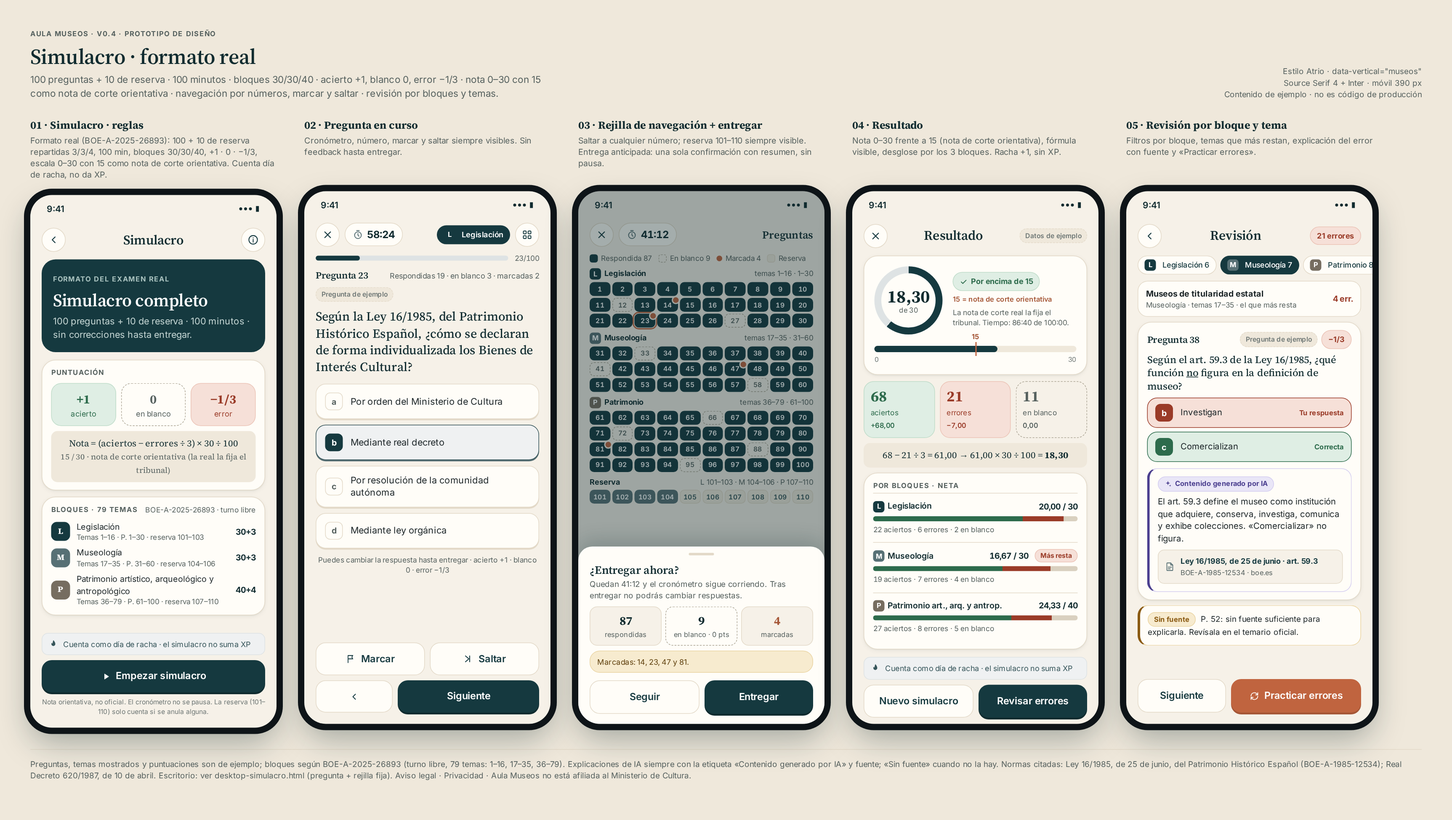
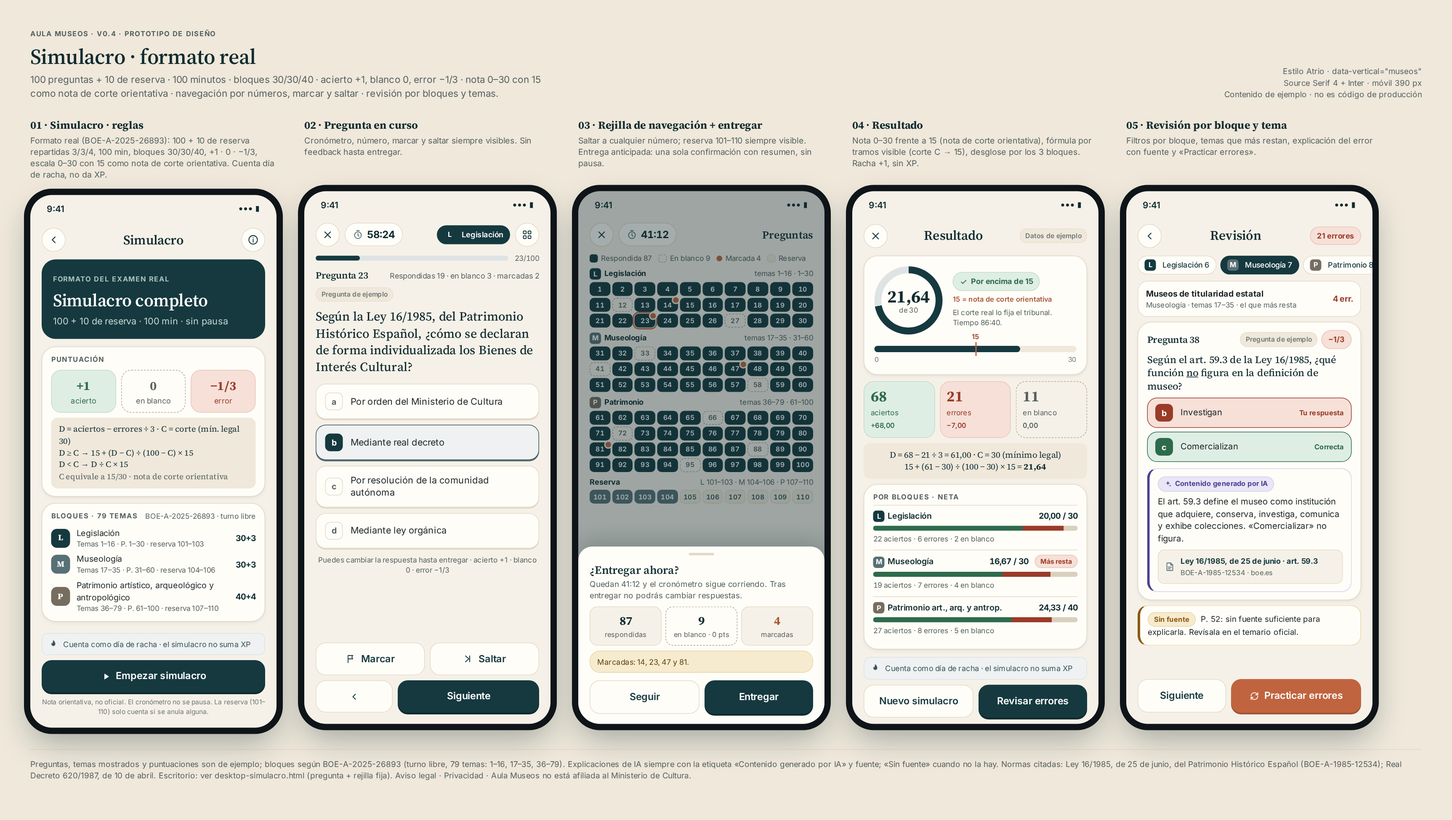
v0.4.4: escala por tramos (scoring.ts @830ba9f) en reglas y resultado; ejemplo 21,64

diff --git a/aula-museos-v04/screen-04.html b/aula-museos-v04/screen-04.html
@@ -2,17 +2,17 @@
 <title>Aula Museos v0.4 · 04 Resultado</title><link rel="stylesheet" href="styles.css"></head><body style="background:var(--paper)"><svg width="0" height="0" style="position:absolute"><symbol id="i-home" viewBox="0 0 24 24" fill="none" stroke="currentColor" stroke-width="1.8" stroke-linecap="round" stroke-linejoin="round"><path d="M3 10.5 12 3l9 7.5"/><path d="M5 9.5V21h14V9.5"/><path d="M10 21v-6h4v6"/></symbol><symbol id="i-book" viewBox="0 0 24 24" fill="none" stroke="currentColor" stroke-width="1.8" stroke-linecap="round" stroke-linejoin="round"><path d="M4 5a2 2 0 0 1 2-2h13v16H6a2 2 0 0 0-2 2z"/><path d="M4 21V5"/><path d="M9 7h6"/></symbol><symbol id="i-tag" viewBox="0 0 24 24" fill="none" stroke="currentColor" stroke-width="1.8" stroke-linecap="round" stroke-linejoin="round"><path d="M3 12V4a1 1 0 0 1 1-1h8l9 9-9 9z"/><circle cx="7.5" cy="7.5" r="1.5"/></symbol><symbol id="i-news" viewBox="0 0 24 24" fill="none" stroke="currentColor" stroke-width="1.8" stroke-linecap="round" stroke-linejoin="round"><rect x="3" y="4" width="18" height="16" rx="2"/><path d="M7 8h10M7 12h10M7 16h6"/></symbol><symbol id="i-chart" viewBox="0 0 24 24" fill="none" stroke="currentColor" stroke-width="1.8" stroke-linecap="round" stroke-linejoin="round"><path d="M4 20V10M10 20V4M16 20v-7M22 20H2"/></symbol><symbol id="i-back" viewBox="0 0 24 24" fill="none" stroke="currentColor" stroke-width="2" stroke-linecap="round" stroke-linejoin="round"><path d="M15 18l-6-6 6-6"/></symbol><symbol id="i-x" viewBox="0 0 24 24" fill="none" stroke="currentColor" stroke-width="2" stroke-linecap="round"><path d="M6 6l12 12M18 6 6 18"/></symbol><symbol id="i-flame" viewBox="0 0 24 24" fill="currentColor"><path d="M12 2s5 4.5 5 10a5 5 0 0 1-10 0c0-2 1-3.5 1-3.5s.5 2 2 2.5C10 8 12 2 12 2z"/></symbol><symbol id="i-star" viewBox="0 0 24 24" fill="currentColor"><path d="M12 3l2.6 5.6 6.1.7-4.5 4.2 1.2 6L12 16.6 6.6 19.5l1.2-6L3.3 9.3l6.1-.7z"/></symbol><symbol id="i-check" viewBox="0 0 24 24" fill="none" stroke="currentColor" stroke-width="2.4" stroke-linecap="round" stroke-linejoin="round"><path d="M5 12.5l4.5 4.5L19 7.5"/></symbol><symbol id="i-lock" viewBox="0 0 24 24" fill="none" stroke="currentColor" stroke-width="2" stroke-linecap="round"><rect x="5" y="11" width="14" height="10" rx="2"/><path d="M8 11V8a4 4 0 0 1 8 0v3"/></symbol><symbol id="i-play" viewBox="0 0 24 24" fill="currentColor"><path d="M8 5v14l11-7z"/></symbol><symbol id="i-col" viewBox="0 0 24 24" fill="none" stroke="currentColor" stroke-width="1.8" stroke-linecap="round" stroke-linejoin="round"><path d="M3 21h18M4 10h16M12 3 3 8h18zM6 10v8M10 10v8M14 10v8M18 10v8"/></symbol><symbol id="i-clock" viewBox="0 0 24 24" fill="none" stroke="currentColor" stroke-width="2" stroke-linecap="round"><circle cx="12" cy="13" r="8"/><path d="M12 9v4l2.5 2.5M9 2h6"/></symbol><symbol id="i-ext" viewBox="0 0 24 24" fill="none" stroke="currentColor" stroke-width="1.8" stroke-linecap="round" stroke-linejoin="round"><path d="M14 4h6v6M20 4l-9 9"/><path d="M18 14v5a1 1 0 0 1-1 1H5a1 1 0 0 1-1-1V7a1 1 0 0 1 1-1h5"/></symbol><symbol id="i-doc" viewBox="0 0 24 24" fill="none" stroke="currentColor" stroke-width="1.8" stroke-linecap="round" stroke-linejoin="round"><path d="M14 3H6a1 1 0 0 0-1 1v16a1 1 0 0 0 1 1h12a1 1 0 0 0 1-1V8z"/><path d="M14 3v5h5M8 13h8M8 17h5"/></symbol><symbol id="i-ai" viewBox="0 0 24 24" fill="currentColor"><path d="M12 2l1.8 5.2L19 9l-5.2 1.8L12 16l-1.8-5.2L5 9l5.2-1.8zM19 14l.9 2.1L22 17l-2.1.9L19 20l-.9-2.1L16 17l2.1-.9z"/></symbol><symbol id="i-gear" viewBox="0 0 24 24" fill="none" stroke="currentColor" stroke-width="1.8" stroke-linecap="round" stroke-linejoin="round"><path d="M4 7h10M18 7h2M4 17h4M12 17h8"/><circle cx="16" cy="7" r="2"/><circle cx="10" cy="17" r="2"/></symbol><symbol id="i-flag" viewBox="0 0 24 24" fill="none" stroke="currentColor" stroke-width="1.8" stroke-linecap="round"><path d="M5 21V4M5 4h11l-2 4 2 4H5"/></symbol><symbol id="i-bulb" viewBox="0 0 24 24" fill="none" stroke="currentColor" stroke-width="1.8" stroke-linecap="round"><path d="M9 18h6M10 21h4M12 3a6 6 0 0 0-3.5 10.9c.6.5 1 1.2 1 2.1h5c0-.9.4-1.6 1-2.1A6 6 0 0 0 12 3z"/></symbol><symbol id="i-info" viewBox="0 0 24 24" fill="none" stroke="currentColor" stroke-width="1.8" stroke-linecap="round"><circle cx="12" cy="12" r="9"/><path d="M12 11v6M12 7.5v.5"/></symbol><symbol id="i-zoom" viewBox="0 0 24 24" fill="none" stroke="currentColor" stroke-width="2" stroke-linecap="round"><circle cx="11" cy="11" r="6"/><path d="M20 20l-4.5-4.5M11 8v6M8 11h6"/></symbol><symbol id="i-skip" viewBox="0 0 24 24" fill="none" stroke="currentColor" stroke-width="2" stroke-linecap="round" stroke-linejoin="round"><path d="M5 5l8 7-8 7M15 5v14"/></symbol><symbol id="i-grid" viewBox="0 0 24 24" fill="none" stroke="currentColor" stroke-width="1.8"><rect x="4" y="4" width="6" height="6" rx="1.5"/><rect x="14" y="4" width="6" height="6" rx="1.5"/><rect x="4" y="14" width="6" height="6" rx="1.5"/><rect x="14" y="14" width="6" height="6" rx="1.5"/></symbol><symbol id="i-flagf" viewBox="0 0 24 24" fill="currentColor" stroke="currentColor" stroke-width="1.8" stroke-linecap="round"><path d="M5 21V4" fill="none"/><path d="M5 4h11l-2 4 2 4H5z"/></symbol><symbol id="i-rest" viewBox="0 0 24 24" fill="none" stroke="currentColor" stroke-width="1.8" stroke-linecap="round" stroke-linejoin="round"><path d="M20 14.5A8 8 0 1 1 9.5 4a6.5 6.5 0 0 0 10.5 10.5z"/></symbol><symbol id="i-repeat" viewBox="0 0 24 24" fill="none" stroke="currentColor" stroke-width="1.8" stroke-linecap="round" stroke-linejoin="round"><path d="M4 12a8 8 0 0 1 14-5.3L20 9M20 4v5h-5M20 12a8 8 0 0 1-14 5.3L4 15M4 20v-5h5"/></symbol></svg><div class="phone" data-vertical="museos"><div class="status"><span>9:41</span><i>●●● ▮</i></div><div class="scr">
 <div class="topbar"><span class="iconbtn"><svg class="i"><use href="#i-x"/></svg></span><h2>Resultado</h2><span class="chip demo">Datos de ejemplo</span></div>
 <div class="card"><div class="scorebox">
- <div class="ring" style="background:conic-gradient(var(--ink-800) 0 61%, var(--ink-100) 61% 100%)"><div><div><b>18,30</b><small>de 30</small></div></div></div>
- <div><span class="chip ok"><svg class="i"><use href="#i-check"/></svg> Por encima de 15</span><p class="cut" style="margin-top:6px">15 = nota de corte orientativa</p><p class="xs muted" style="margin-top:4px">La nota de corte real la fija el tribunal. Tiempo: 86:40 de 100:00.</p></div>
+ <div class="ring" style="background:conic-gradient(var(--ink-800) 0 72.1%, var(--ink-100) 72.1% 100%)"><div><div><b>21,64</b><small>de 30</small></div></div></div>
+ <div><span class="chip ok"><svg class="i"><use href="#i-check"/></svg> Por encima de 15</span><p class="cut" style="margin-top:6px">15 = nota de corte orientativa</p><p class="xs muted" style="margin-top:4px">El corte real lo fija el tribunal. Tiempo 86:40.</p></div>
 </div>
-<div class="thr"><i style="width:61%"></i><em style="left:50%"></em></div><div class="thrlbl"><span>0</span><span>30</span></div>
+<div class="thr"><i style="width:72.1%"></i><em style="left:50%"></em></div><div class="thrlbl"><span>0</span><span>30</span></div>
 </div>
 <div class="res3" style="margin-top:10px">
  <div class="ok"><b>68</b><span>aciertos</span><small>+68,00</small></div>
  <div class="er"><b>21</b><span>errores</span><small>−7,00</small></div>
  <div class="bl"><b>11</b><span>en blanco</span><small>0,00</small></div>
 </div>
-<div class="formula" style="margin-top:8px">68 − 21 ÷ 3 = 61,00 → 61,00 × 30 ÷ 100 = <b>18,30</b></div>
+<div class="formula" style="margin-top:8px;font-size:13.5px;line-height:1.45">D = 68 − 21 ÷ 3 = 61,00 · C = 30 (mínimo legal)<br>15 + (61 − 30) ÷ (100 − 30) × 15 = <b>21,64</b></div>
 <div class="card tight" style="margin-top:8px"><div class="label" style="margin-bottom:4px">Por bloques · neta</div>
  <div class="bk"><div class="row"><span class="nm"><span class="lb L">L</span>Legislación</span><span class="pts">20,00 / 30</span></div><div class="split"><i class="o" style="width:73.3%"></i><i class="e" style="width:20%"></i><i class="z" style="width:6.7%"></i></div><small>22 aciertos · 6 errores · 2 en blanco</small></div>
  <div class="bk"><div class="row"><span class="nm"><span class="lb M">M</span>Museología</span><span class="pts">16,67 / 30</span><span class="chip err" style="font-size:10.5px;padding:2px 8px">Más resta</span></div><div class="split"><i class="o" style="width:63.3%"></i><i class="e" style="width:23.3%"></i><i class="z" style="width:13.3%"></i></div><small>19 aciertos · 7 errores · 4 en blanco</small></div>

diff --git a/aula-museos-v04/screen-01.html b/aula-museos-v04/screen-01.html
@@ -2,11 +2,11 @@
 <title>Aula Museos v0.4 · 01 Simulacro · reglas</title><link rel="stylesheet" href="styles.css"></head><body style="background:var(--paper)"><svg width="0" height="0" style="position:absolute"><symbol id="i-home" viewBox="0 0 24 24" fill="none" stroke="currentColor" stroke-width="1.8" stroke-linecap="round" stroke-linejoin="round"><path d="M3 10.5 12 3l9 7.5"/><path d="M5 9.5V21h14V9.5"/><path d="M10 21v-6h4v6"/></symbol><symbol id="i-book" viewBox="0 0 24 24" fill="none" stroke="currentColor" stroke-width="1.8" stroke-linecap="round" stroke-linejoin="round"><path d="M4 5a2 2 0 0 1 2-2h13v16H6a2 2 0 0 0-2 2z"/><path d="M4 21V5"/><path d="M9 7h6"/></symbol><symbol id="i-tag" viewBox="0 0 24 24" fill="none" stroke="currentColor" stroke-width="1.8" stroke-linecap="round" stroke-linejoin="round"><path d="M3 12V4a1 1 0 0 1 1-1h8l9 9-9 9z"/><circle cx="7.5" cy="7.5" r="1.5"/></symbol><symbol id="i-news" viewBox="0 0 24 24" fill="none" stroke="currentColor" stroke-width="1.8" stroke-linecap="round" stroke-linejoin="round"><rect x="3" y="4" width="18" height="16" rx="2"/><path d="M7 8h10M7 12h10M7 16h6"/></symbol><symbol id="i-chart" viewBox="0 0 24 24" fill="none" stroke="currentColor" stroke-width="1.8" stroke-linecap="round" stroke-linejoin="round"><path d="M4 20V10M10 20V4M16 20v-7M22 20H2"/></symbol><symbol id="i-back" viewBox="0 0 24 24" fill="none" stroke="currentColor" stroke-width="2" stroke-linecap="round" stroke-linejoin="round"><path d="M15 18l-6-6 6-6"/></symbol><symbol id="i-x" viewBox="0 0 24 24" fill="none" stroke="currentColor" stroke-width="2" stroke-linecap="round"><path d="M6 6l12 12M18 6 6 18"/></symbol><symbol id="i-flame" viewBox="0 0 24 24" fill="currentColor"><path d="M12 2s5 4.5 5 10a5 5 0 0 1-10 0c0-2 1-3.5 1-3.5s.5 2 2 2.5C10 8 12 2 12 2z"/></symbol><symbol id="i-star" viewBox="0 0 24 24" fill="currentColor"><path d="M12 3l2.6 5.6 6.1.7-4.5 4.2 1.2 6L12 16.6 6.6 19.5l1.2-6L3.3 9.3l6.1-.7z"/></symbol><symbol id="i-check" viewBox="0 0 24 24" fill="none" stroke="currentColor" stroke-width="2.4" stroke-linecap="round" stroke-linejoin="round"><path d="M5 12.5l4.5 4.5L19 7.5"/></symbol><symbol id="i-lock" viewBox="0 0 24 24" fill="none" stroke="currentColor" stroke-width="2" stroke-linecap="round"><rect x="5" y="11" width="14" height="10" rx="2"/><path d="M8 11V8a4 4 0 0 1 8 0v3"/></symbol><symbol id="i-play" viewBox="0 0 24 24" fill="currentColor"><path d="M8 5v14l11-7z"/></symbol><symbol id="i-col" viewBox="0 0 24 24" fill="none" stroke="currentColor" stroke-width="1.8" stroke-linecap="round" stroke-linejoin="round"><path d="M3 21h18M4 10h16M12 3 3 8h18zM6 10v8M10 10v8M14 10v8M18 10v8"/></symbol><symbol id="i-clock" viewBox="0 0 24 24" fill="none" stroke="currentColor" stroke-width="2" stroke-linecap="round"><circle cx="12" cy="13" r="8"/><path d="M12 9v4l2.5 2.5M9 2h6"/></symbol><symbol id="i-ext" viewBox="0 0 24 24" fill="none" stroke="currentColor" stroke-width="1.8" stroke-linecap="round" stroke-linejoin="round"><path d="M14 4h6v6M20 4l-9 9"/><path d="M18 14v5a1 1 0 0 1-1 1H5a1 1 0 0 1-1-1V7a1 1 0 0 1 1-1h5"/></symbol><symbol id="i-doc" viewBox="0 0 24 24" fill="none" stroke="currentColor" stroke-width="1.8" stroke-linecap="round" stroke-linejoin="round"><path d="M14 3H6a1 1 0 0 0-1 1v16a1 1 0 0 0 1 1h12a1 1 0 0 0 1-1V8z"/><path d="M14 3v5h5M8 13h8M8 17h5"/></symbol><symbol id="i-ai" viewBox="0 0 24 24" fill="currentColor"><path d="M12 2l1.8 5.2L19 9l-5.2 1.8L12 16l-1.8-5.2L5 9l5.2-1.8zM19 14l.9 2.1L22 17l-2.1.9L19 20l-.9-2.1L16 17l2.1-.9z"/></symbol><symbol id="i-gear" viewBox="0 0 24 24" fill="none" stroke="currentColor" stroke-width="1.8" stroke-linecap="round" stroke-linejoin="round"><path d="M4 7h10M18 7h2M4 17h4M12 17h8"/><circle cx="16" cy="7" r="2"/><circle cx="10" cy="17" r="2"/></symbol><symbol id="i-flag" viewBox="0 0 24 24" fill="none" stroke="currentColor" stroke-width="1.8" stroke-linecap="round"><path d="M5 21V4M5 4h11l-2 4 2 4H5"/></symbol><symbol id="i-bulb" viewBox="0 0 24 24" fill="none" stroke="currentColor" stroke-width="1.8" stroke-linecap="round"><path d="M9 18h6M10 21h4M12 3a6 6 0 0 0-3.5 10.9c.6.5 1 1.2 1 2.1h5c0-.9.4-1.6 1-2.1A6 6 0 0 0 12 3z"/></symbol><symbol id="i-info" viewBox="0 0 24 24" fill="none" stroke="currentColor" stroke-width="1.8" stroke-linecap="round"><circle cx="12" cy="12" r="9"/><path d="M12 11v6M12 7.5v.5"/></symbol><symbol id="i-zoom" viewBox="0 0 24 24" fill="none" stroke="currentColor" stroke-width="2" stroke-linecap="round"><circle cx="11" cy="11" r="6"/><path d="M20 20l-4.5-4.5M11 8v6M8 11h6"/></symbol><symbol id="i-skip" viewBox="0 0 24 24" fill="none" stroke="currentColor" stroke-width="2" stroke-linecap="round" stroke-linejoin="round"><path d="M5 5l8 7-8 7M15 5v14"/></symbol><symbol id="i-grid" viewBox="0 0 24 24" fill="none" stroke="currentColor" stroke-width="1.8"><rect x="4" y="4" width="6" height="6" rx="1.5"/><rect x="14" y="4" width="6" height="6" rx="1.5"/><rect x="4" y="14" width="6" height="6" rx="1.5"/><rect x="14" y="14" width="6" height="6" rx="1.5"/></symbol><symbol id="i-flagf" viewBox="0 0 24 24" fill="currentColor" stroke="currentColor" stroke-width="1.8" stroke-linecap="round"><path d="M5 21V4" fill="none"/><path d="M5 4h11l-2 4 2 4H5z"/></symbol><symbol id="i-rest" viewBox="0 0 24 24" fill="none" stroke="currentColor" stroke-width="1.8" stroke-linecap="round" stroke-linejoin="round"><path d="M20 14.5A8 8 0 1 1 9.5 4a6.5 6.5 0 0 0 10.5 10.5z"/></symbol><symbol id="i-repeat" viewBox="0 0 24 24" fill="none" stroke="currentColor" stroke-width="1.8" stroke-linecap="round" stroke-linejoin="round"><path d="M4 12a8 8 0 0 1 14-5.3L20 9M20 4v5h-5M20 12a8 8 0 0 1-14 5.3L4 15M4 20v-5h5"/></symbol></svg><div class="phone" data-vertical="museos"><div class="status"><span>9:41</span><i>●●● ▮</i></div><div class="scr">
 <div class="topbar"><span class="iconbtn"><svg class="i"><use href="#i-back"/></svg></span><h2>Simulacro</h2><span class="iconbtn"><svg class="i"><use href="#i-info"/></svg></span></div>
 <div class="hero"><span class="label">Formato del examen real</span><h1 style="margin-top:6px">Simulacro completo</h1>
-<p class="lead">100 preguntas + 10 de reserva · 100 minutos · sin correcciones hasta entregar.</p></div>
+<p class="lead">100 + 10 de reserva · 100 min · sin pausa</p></div>
 
 <div class="card tight" style="margin-top:12px"><div class="label" style="margin-bottom:8px">Puntuación</div>
  <div class="scoring"><div class="sc ok"><b>+1</b>acierto</div><div class="sc bl"><b>0</b>en blanco</div><div class="sc er"><b>−1/3</b>error</div></div>
- <div class="formula" style="margin-top:8px">Nota = (aciertos − errores ÷ 3) × 30 ÷ 100<br><span class="small muted">15 / 30 · nota de corte orientativa (la real la fija el tribunal)</span></div>
+ <div class="formula" style="margin-top:8px;font-size:13.5px;line-height:1.45;text-align:left;font-size:13px">D = aciertos − errores ÷ 3 · C = corte (mín. legal 30)<br>D ≥ C → 15 + (D − C) ÷ (100 − C) × 15<br>D &lt; C → D ÷ C × 15<br><span class="small muted">C equivale a 15/30 · nota de corte orientativa</span></div>
 </div>
 <div class="card tight" style="margin-top:10px"><div class="row between" style="margin-bottom:8px"><span class="label">Bloques · 79 temas</span><span class="xs muted">BOE-A-2025-26893 · turno libre</span></div>
  <div class="blocks">

diff --git a/aula-museos-v04/board-simulacro.html b/aula-museos-v04/board-simulacro.html
@@ -5,11 +5,11 @@
 <div class="board"><div class="frame"><div class="cap"><b>01 · Simulacro · reglas</b>Formato real (BOE-A-2025-26893): 100 + 10 de reserva repartidas 3/3/4, 100 min, bloques 30/30/40, +1 · 0 · −1/3, escala 0–30 con 15 como nota de corte orientativa. Cuenta día de racha, no da XP.</div><div class="phone" data-vertical="museos"><div class="status"><span>9:41</span><i>●●● ▮</i></div><div class="scr">
 <div class="topbar"><span class="iconbtn"><svg class="i"><use href="#i-back"/></svg></span><h2>Simulacro</h2><span class="iconbtn"><svg class="i"><use href="#i-info"/></svg></span></div>
 <div class="hero"><span class="label">Formato del examen real</span><h1 style="margin-top:6px">Simulacro completo</h1>
-<p class="lead">100 preguntas + 10 de reserva · 100 minutos · sin correcciones hasta entregar.</p></div>
+<p class="lead">100 + 10 de reserva · 100 min · sin pausa</p></div>
 
 <div class="card tight" style="margin-top:12px"><div class="label" style="margin-bottom:8px">Puntuación</div>
  <div class="scoring"><div class="sc ok"><b>+1</b>acierto</div><div class="sc bl"><b>0</b>en blanco</div><div class="sc er"><b>−1/3</b>error</div></div>
- <div class="formula" style="margin-top:8px">Nota = (aciertos − errores ÷ 3) × 30 ÷ 100<br><span class="small muted">15 / 30 · nota de corte orientativa (la real la fija el tribunal)</span></div>
+ <div class="formula" style="margin-top:8px;font-size:13.5px;line-height:1.45;text-align:left;font-size:13px">D = aciertos − errores ÷ 3 · C = corte (mín. legal 30)<br>D ≥ C → 15 + (D − C) ÷ (100 − C) × 15<br>D &lt; C → D ÷ C × 15<br><span class="small muted">C equivale a 15/30 · nota de corte orientativa</span></div>
 </div>
 <div class="card tight" style="margin-top:10px"><div class="row between" style="margin-bottom:8px"><span class="label">Bloques · 79 temas</span><span class="xs muted">BOE-A-2025-26893 · turno libre</span></div>
  <div class="blocks">
@@ -44,20 +44,20 @@
 <div class="sumrow three"><div><b>87</b>respondidas</div><div class="bl"><b>9</b>en blanco · 0 pts</div><div class="fl"><b>4</b>marcadas</div></div>
 <div class="warnbox">Marcadas: 14, 23, 47 y 81.</div>
 <div class="btns" style="margin-top:12px"><span class="btn btn-ghost">Seguir</span><span class="btn btn-primary">Entregar</span></div>
-</div></div></div></div><div class="frame"><div class="cap"><b>04 · Resultado</b>Nota 0–30 frente a 15 (nota de corte orientativa), fórmula visible, desglose por los 3 bloques. Racha +1, sin XP.</div><div class="phone" data-vertical="museos"><div class="status"><span>9:41</span><i>●●● ▮</i></div><div class="scr">
+</div></div></div></div><div class="frame"><div class="cap"><b>04 · Resultado</b>Nota 0–30 frente a 15 (nota de corte orientativa), fórmula por tramos visible (corte C → 15), desglose por los 3 bloques. Racha +1, sin XP.</div><div class="phone" data-vertical="museos"><div class="status"><span>9:41</span><i>●●● ▮</i></div><div class="scr">
 <div class="topbar"><span class="iconbtn"><svg class="i"><use href="#i-x"/></svg></span><h2>Resultado</h2><span class="chip demo">Datos de ejemplo</span></div>
 <div class="card"><div class="scorebox">
- <div class="ring" style="background:conic-gradient(var(--ink-800) 0 61%, var(--ink-100) 61% 100%)"><div><div><b>18,30</b><small>de 30</small></div></div></div>
- <div><span class="chip ok"><svg class="i"><use href="#i-check"/></svg> Por encima de 15</span><p class="cut" style="margin-top:6px">15 = nota de corte orientativa</p><p class="xs muted" style="margin-top:4px">La nota de corte real la fija el tribunal. Tiempo: 86:40 de 100:00.</p></div>
+ <div class="ring" style="background:conic-gradient(var(--ink-800) 0 72.1%, var(--ink-100) 72.1% 100%)"><div><div><b>21,64</b><small>de 30</small></div></div></div>
+ <div><span class="chip ok"><svg class="i"><use href="#i-check"/></svg> Por encima de 15</span><p class="cut" style="margin-top:6px">15 = nota de corte orientativa</p><p class="xs muted" style="margin-top:4px">El corte real lo fija el tribunal. Tiempo 86:40.</p></div>
 </div>
-<div class="thr"><i style="width:61%"></i><em style="left:50%"></em></div><div class="thrlbl"><span>0</span><span>30</span></div>
+<div class="thr"><i style="width:72.1%"></i><em style="left:50%"></em></div><div class="thrlbl"><span>0</span><span>30</span></div>
 </div>
 <div class="res3" style="margin-top:10px">
  <div class="ok"><b>68</b><span>aciertos</span><small>+68,00</small></div>
  <div class="er"><b>21</b><span>errores</span><small>−7,00</small></div>
  <div class="bl"><b>11</b><span>en blanco</span><small>0,00</small></div>
 </div>
-<div class="formula" style="margin-top:8px">68 − 21 ÷ 3 = 61,00 → 61,00 × 30 ÷ 100 = <b>18,30</b></div>
+<div class="formula" style="margin-top:8px;font-size:13.5px;line-height:1.45">D = 68 − 21 ÷ 3 = 61,00 · C = 30 (mínimo legal)<br>15 + (61 − 30) ÷ (100 − 30) × 15 = <b>21,64</b></div>
 <div class="card tight" style="margin-top:8px"><div class="label" style="margin-bottom:4px">Por bloques · neta</div>
  <div class="bk"><div class="row"><span class="nm"><span class="lb L">L</span>Legislación</span><span class="pts">20,00 / 30</span></div><div class="split"><i class="o" style="width:73.3%"></i><i class="e" style="width:20%"></i><i class="z" style="width:6.7%"></i></div><small>22 aciertos · 6 errores · 2 en blanco</small></div>
  <div class="bk"><div class="row"><span class="nm"><span class="lb M">M</span>Museología</span><span class="pts">16,67 / 30</span><span class="chip err" style="font-size:10.5px;padding:2px 8px">Más resta</span></div><div class="split"><i class="o" style="width:63.3%"></i><i class="e" style="width:23.3%"></i><i class="z" style="width:13.3%"></i></div><small>19 aciertos · 7 errores · 4 en blanco</small></div>

diff --git a/aula-museos-v04/styles.css b/aula-museos-v04/styles.css
@@ -145,7 +145,7 @@ h1{font-size:28px;letter-spacing:-.3px}h3{font-size:18px}
 .res3 .ok{background:var(--ok-100);border-color:#BFDCC9;color:var(--ok-700)}
 .res3 .bl{border-style:dashed;border-color:#A9A291;color:var(--muted)}
 .res3 .er{background:var(--err-100);border-color:#EBC3B6;color:var(--err-700)}
-.bk{padding:10px 0;border-top:1px solid var(--line)}
+.bk{padding:7px 0;border-top:1px solid var(--line)}
 .bk:first-of-type{border-top:0;padding-top:4px}
 .bk .row{font-size:13px}.bk .nm{flex:1;font-weight:600;color:var(--ink-900)}
 .bk .pts{font-variant-numeric:tabular-nums;font-weight:700;color:var(--ink-900)}

diff --git a/aula-museos-v04/build.py b/aula-museos-v04/build.py
@@ -18,11 +18,11 @@ S = {}
 S[1] = ('Simulacro · reglas', 'Formato real (BOE-A-2025-26893): 100 + 10 de reserva repartidas 3/3/4, 100 min, bloques 30/30/40, +1 · 0 · −1/3, escala 0–30 con 15 como nota de corte orientativa. Cuenta día de racha, no da XP.', f'''
 <div class="topbar"><span class="iconbtn">{ic('i-back')}</span><h2>Simulacro</h2><span class="iconbtn">{ic('i-info')}</span></div>
 <div class="hero"><span class="label">Formato del examen real</span><h1 style="margin-top:6px">Simulacro completo</h1>
-<p class="lead">100 preguntas + 10 de reserva · 100 minutos · sin correcciones hasta entregar.</p></div>
+<p class="lead">100 + 10 de reserva · 100 min · sin pausa</p></div>
 
 <div class="card tight" style="margin-top:12px"><div class="label" style="margin-bottom:8px">Puntuación</div>
  <div class="scoring"><div class="sc ok"><b>+1</b>acierto</div><div class="sc bl"><b>0</b>en blanco</div><div class="sc er"><b>−1/3</b>error</div></div>
- <div class="formula" style="margin-top:8px">Nota = (aciertos − errores ÷ 3) × 30 ÷ 100<br><span class="small muted">15 / 30 · nota de corte orientativa (la real la fija el tribunal)</span></div>
+ <div class="formula" style="margin-top:8px;font-size:13.5px;line-height:1.45;text-align:left;font-size:13px">D = aciertos − errores ÷ 3 · C = corte (mín. legal 30)<br>D ≥ C → 15 + (D − C) ÷ (100 − C) × 15<br>D &lt; C → D ÷ C × 15<br><span class="small muted">C equivale a 15/30 · nota de corte orientativa</span></div>
 </div>
 <div class="card tight" style="margin-top:10px"><div class="row between" style="margin-bottom:8px"><span class="label">Bloques · 79 temas</span><span class="xs muted">BOE-A-2025-26893 · turno libre</span></div>
  <div class="blocks">
@@ -82,21 +82,21 @@ S[3] = ('Rejilla de navegación + entregar', 'Saltar a cualquier número; reserv
 </div>''')
 
 # ---------- 4 · Resultado ----------
-# ejemplo: 68 aciertos, 21 errores, 11 en blanco → neta 61,00 → 18,30/30
-S[4] = ('Resultado', 'Nota 0–30 frente a 15 (nota de corte orientativa), fórmula visible, desglose por los 3 bloques. Racha +1, sin XP.', f'''
+# ejemplo: 68/21/11 → D 61,00, C 30 (mínimo legal) → 21,64/30 (scoring.ts transformToScale @830ba9f)
+S[4] = ('Resultado', 'Nota 0–30 frente a 15 (nota de corte orientativa), fórmula por tramos visible (corte C → 15), desglose por los 3 bloques. Racha +1, sin XP.', f'''
 <div class="topbar"><span class="iconbtn">{ic('i-x')}</span><h2>Resultado</h2><span class="chip demo">Datos de ejemplo</span></div>
 <div class="card"><div class="scorebox">
- <div class="ring" style="background:conic-gradient(var(--ink-800) 0 61%, var(--ink-100) 61% 100%)"><div><div><b>18,30</b><small>de 30</small></div></div></div>
- <div><span class="chip ok">{ic('i-check')} Por encima de 15</span><p class="cut" style="margin-top:6px">15 = nota de corte orientativa</p><p class="xs muted" style="margin-top:4px">La nota de corte real la fija el tribunal. Tiempo: 86:40 de 100:00.</p></div>
+ <div class="ring" style="background:conic-gradient(var(--ink-800) 0 72.1%, var(--ink-100) 72.1% 100%)"><div><div><b>21,64</b><small>de 30</small></div></div></div>
+ <div><span class="chip ok">{ic('i-check')} Por encima de 15</span><p class="cut" style="margin-top:6px">15 = nota de corte orientativa</p><p class="xs muted" style="margin-top:4px">El corte real lo fija el tribunal. Tiempo 86:40.</p></div>
 </div>
-<div class="thr"><i style="width:61%"></i><em style="left:50%"></em></div><div class="thrlbl"><span>0</span><span>30</span></div>
+<div class="thr"><i style="width:72.1%"></i><em style="left:50%"></em></div><div class="thrlbl"><span>0</span><span>30</span></div>
 </div>
 <div class="res3" style="margin-top:10px">
  <div class="ok"><b>68</b><span>aciertos</span><small>+68,00</small></div>
  <div class="er"><b>21</b><span>errores</span><small>−7,00</small></div>
  <div class="bl"><b>11</b><span>en blanco</span><small>0,00</small></div>
 </div>
-<div class="formula" style="margin-top:8px">68 − 21 ÷ 3 = 61,00 → 61,00 × 30 ÷ 100 = <b>18,30</b></div>
+<div class="formula" style="margin-top:8px;font-size:13.5px;line-height:1.45">D = 68 − 21 ÷ 3 = 61,00 · C = 30 (mínimo legal)<br>15 + (61 − 30) ÷ (100 − 30) × 15 = <b>21,64</b></div>
 <div class="card tight" style="margin-top:8px"><div class="label" style="margin-bottom:4px">Por bloques · neta</div>
  <div class="bk"><div class="row"><span class="nm"><span class="lb L">L</span>Legislación</span><span class="pts">20,00 / 30</span></div><div class="split"><i class="o" style="width:73.3%"></i><i class="e" style="width:20%"></i><i class="z" style="width:6.7%"></i></div><small>22 aciertos · 6 errores · 2 en blanco</small></div>
  <div class="bk"><div class="row"><span class="nm"><span class="lb M">M</span>Museología</span><span class="pts">16,67 / 30</span><span class="chip err" style="font-size:10.5px;padding:2px 8px">Más resta</span></div><div class="split"><i class="o" style="width:63.3%"></i><i class="e" style="width:23.3%"></i><i class="z" style="width:13.3%"></i></div><small>19 aciertos · 7 errores · 4 en blanco</small></div>

diff --git a/aula-museos-v04/RESUMEN.md b/aula-museos-v04/RESUMEN.md
@@ -6,7 +6,7 @@
 
 ## Почему так
 - **Только утверждённый бренд.** Токены `[data-vertical="museos"]` из `aula-tokens.css` (ink-800 #15393F, терракота #C0643F), Source Serif 4 + Inter, радиусы 10/16/22/pill; компоненты (`opt`, `chip`, `aibox`, `cite`, `formula`, `res3`, tab bar) взяты из `app/` и концепта v0.3 — нового направления нет.
-- **Симулякр = реальный формат.** 100 + 10 резервных, 100 мин, блоки 30/30/40, +1 · 0 · −1/3, шкала 0–30 с порогом 15. Формула показана на экране правил и в результате (68 − 21 ÷ 3 = 61,00 → × 30 ÷ 100 = 18,30), чтобы оценка не была «чёрным ящиком».
+- **Симулякр = реальный формат.** 100 + 10 резервных, 100 мин, блоки 30/30/40, +1 · 0 · −1/3, шкала 0–30 с порогом 15. Формула показана на экране правил и в результате (D = 68 − 21 ÷ 3 = 61,00; C = 30 — минимум по закону; 15 + (61 − 30) ÷ (100 − 30) × 15 = 21,64 — кусочно-линейная шкала как в scoring.ts @830ba9f), чтобы оценка не была «чёрным ящиком».
 - **Экзамен светлый, без обратной связи.** Как в макете экзамена Atrio: выбор подсвечивается ink, флажок — терракотой; правильно/неправильно только после сдачи. «Marcar» и «Saltar» всегда видны.
 - **Сетка навигации** по номерам, разбитая по блокам; легенда: отвечено / пусто (пунктир) / отмечено (точка) / резерв 101–110 (отдельный ряд с пояснением «cuentan solo si se anula alguna»). Подтверждение сдачи — нижний лист со сводкой и списком отмеченных.
 - **Результат и разбор по блокам и темам.** Шкала 0–30 с отметкой 15 («nota de corte orientativa», реальную ставит tribunal), разбивка по 3 блокам с пометкой блока, «который больше всего отнимает»; разбор ошибки — объяснение ИИ с плашкой «Contenido generado por IA» + источник (или «Sin fuente») и ссылкой на статью (Ley 16/1985, art. 59.3); пример «Sin fuente»; главный CTA — «Practicar errores».
